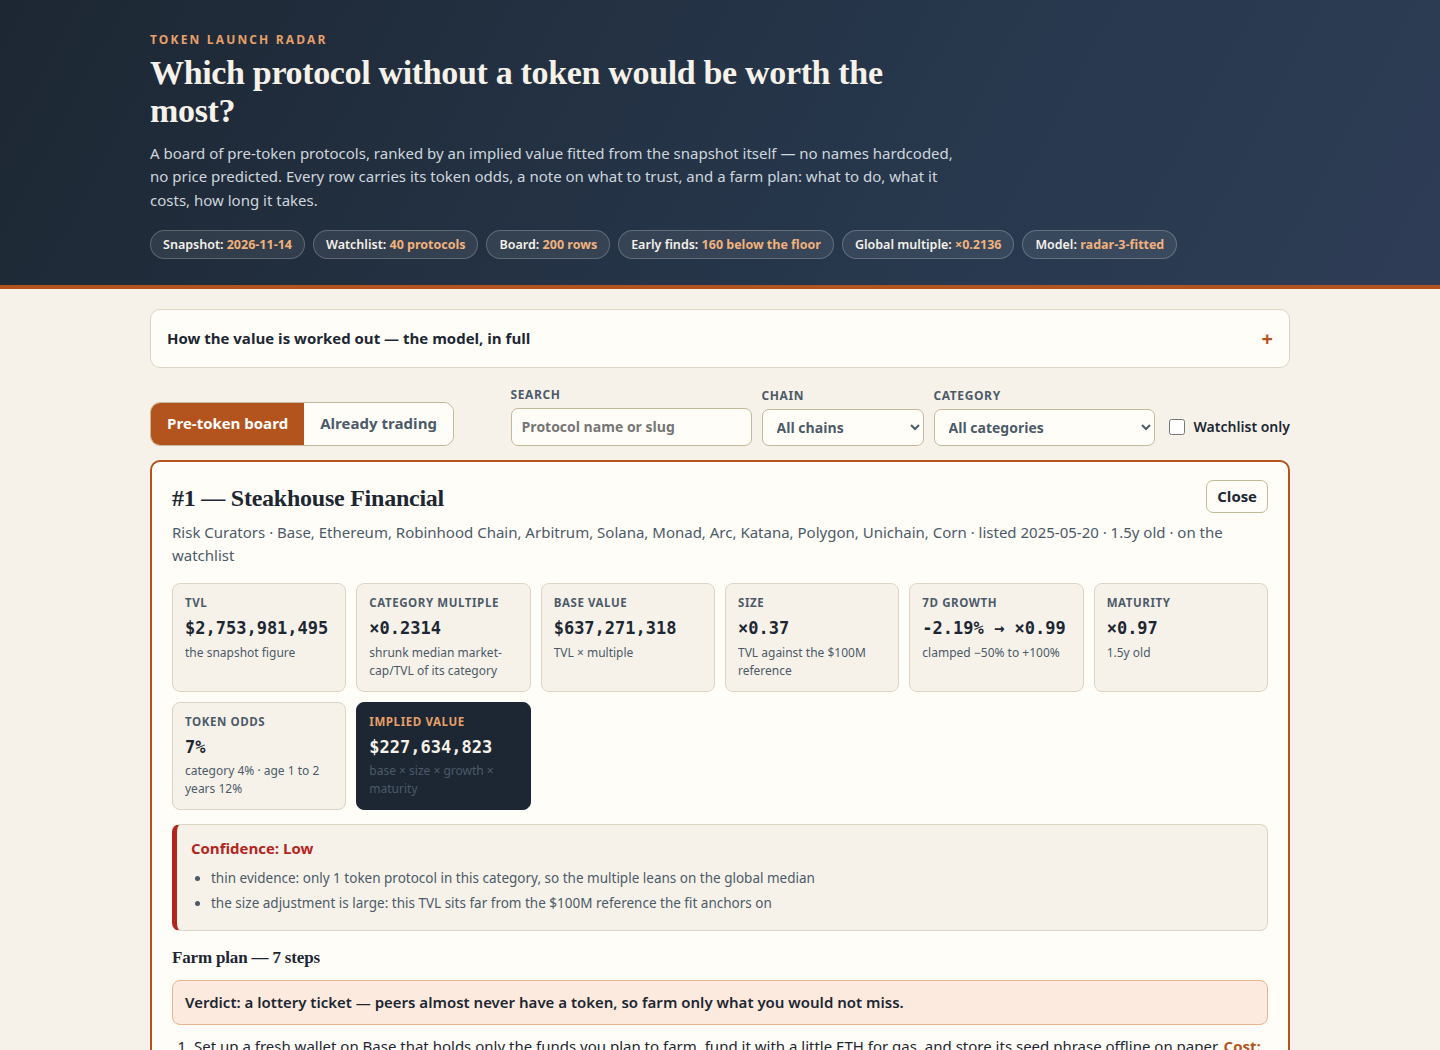
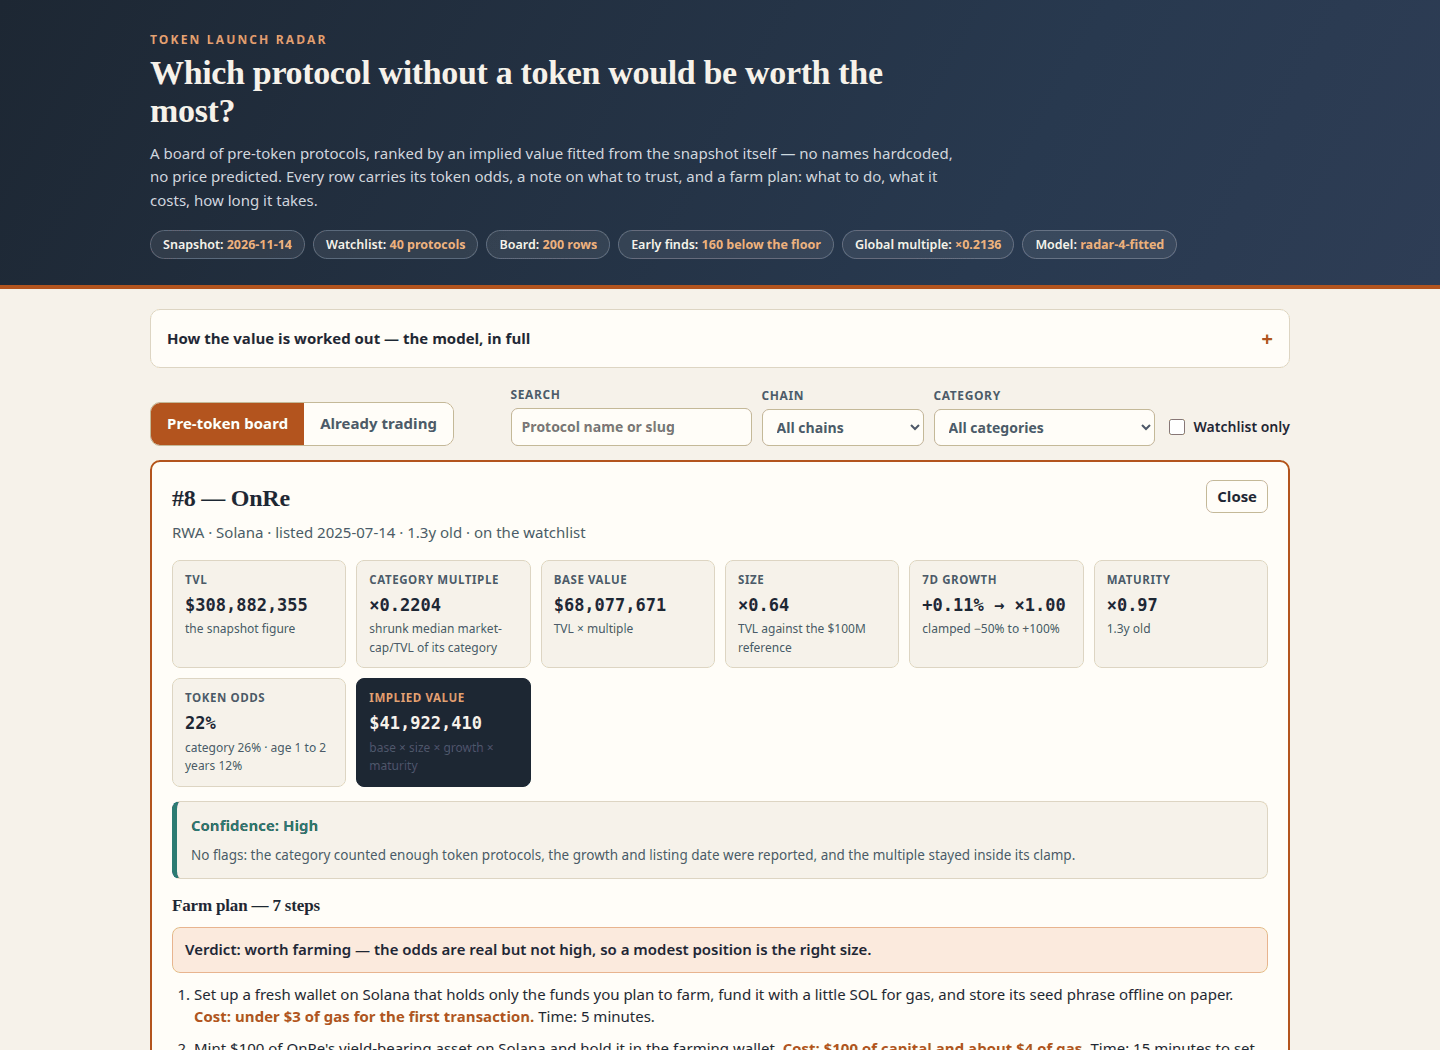
Launch radar v4: five-fold fitted model, evidence-only confidence
- Fit on five held-out folds (pooled MSE), finer grid: k=64, size -0.4,
  growth 0, maturity 0.9; v4 beats v2 on median error on all five folds
- Growth weight fits to zero on this snapshot; the method says so instead
  of pretending otherwise
- Confidence now counts evidence only (category sample, reported
  growth/date, clamp); the size adjustment no longer moves the level,
  so the top rows read Medium instead of Low
- Method adds a candid 'Reading the top of the board' note (category
  concentration, low token odds, the record is not proof of no token)
- Detail screenshot shows OnRe (#8, high confidence); filtered view is
  watchlist-only; screenshots palette-quantized, dossier 1.44MB -> 0.47MB

diff --git a/lib/model.ts b/lib/model.ts
@@ -1,4 +1,4 @@
-// Token launch radar, model v3 ("fitted").
+// Token launch radar, model v4 ("fitted").
 //
 // The board ranks pre-token protocols by an implied value fitted from the
 // snapshot itself, never from a hand-written list of names:
@@ -27,13 +27,13 @@
 // The fit is a grid search that minimises the mean squared error of
 // log(implied) against log(market cap) on the token protocols — but the
 // knobs are chosen by held-out error, not in-sample error: every candidate
-// is scored on two held-out folds (a deterministic hash split of the token
-// protocols, folds A and B), each time with the multiples table fitted on
-// that fold's training protocols only, and the candidate with the lowest
-// mean held-out error wins. The board uses the winning knobs with the
-// table fitted on all of them, and the dashboard prints the held-out
-// errors next to the previous model's errors on the same folds, so the
-// improvement is checked, not claimed.
+// is scored on five held-out folds (a deterministic hash split of the token
+// protocols, folds A to E, each protocol held out exactly once), each time
+// with the multiples table fitted on that fold's training protocols only,
+// and the candidate with the lowest mean held-out error wins. The board
+// uses the winning knobs with the table fitted on all of them, and the
+// dashboard prints the held-out errors next to the previous model's errors
+// on the same folds, so the improvement is checked, not claimed.
 //
 // Two more things the board carries, both from the snapshot alone:
 //   token odds  = how often protocols like this one have a token: the
@@ -41,10 +41,13 @@
 //               each shrunk toward the global rate of 19%, blended 70/30.
 //               It never moves the ranking; it tells the reader how likely
 //               the launch this board is priced for actually is.
-//   confidence  = what to trust: the category sample behind the multiple,
-//               whether the growth or the listing date was missing, whether
-//               the multiple hit its clamp, and how far the size adjustment
-//               reaches. A row with thin evidence says so on its face.
+//   confidence  = what to trust: the evidence behind the row — the category
+//               sample behind the multiple, whether the growth or the
+//               listing date was missing, and whether the multiple hit its
+//               clamp. The size adjustment is a fitted part of the model,
+//               shown on the row's detail view, not an evidence gap, so it
+//               does not move the level. A row with thin evidence says so
+//               on its face.
 //
 // A protocol is pre-token when its record carries no market cap, no
 // CoinGecko id and no symbol. The board covers the snapshot's whole
@@ -112,7 +115,7 @@ export const MODEL: ModelParams = {
   live_rows: 20,
 };
 
-export const MODEL_VERSION = 'radar-3-fitted';
+export const MODEL_VERSION = 'radar-4-fitted';
 
 const DAY_MS = 86_400_000;
 
@@ -422,12 +425,16 @@ function scoreFold(
   };
 }
 
-/** Every candidate parameter set, in fixed grid order. */
+/** Every candidate parameter set, in fixed grid order. The grid is finer
+ * than v3's around the region the coarse grid preferred, and the growth
+ * weight is allowed to fall to zero: the fit may find that seven-day
+ * growth carries no signal, and the board then says so instead of
+ * pretending otherwise. */
 export function gridCombos(): FitParams[] {
   const combos: FitParams[] = [];
-  for (const k of [0, 2, 4, 8, 16, 32]) {
-    for (const s of [-0.6, -0.45, -0.3, -0.15, 0]) {
-      for (const w of [0, 0.1, 0.2, 0.3, 0.4]) {
+  for (const k of [0, 4, 8, 16, 32, 48, 64]) {
+    for (const s of [-0.6, -0.5, -0.4, -0.3, -0.2, -0.1, 0]) {
+      for (const w of [0, 0.1, 0.2, 0.3, 0.4, 0.5]) {
         for (const m of [0.7, 0.8, 0.9, 1]) {
           combos.push({ shrink_k: k, size_exponent: s, growth_weight: w, maturity_floor: m });
         }
@@ -449,35 +456,47 @@ export interface FitResult {
 
 /**
  * The whole fit. The knobs are chosen by held-out error, not by in-sample
- * error: every candidate is scored on both folds' validation sets, each
- * time with the table fitted on that fold's training protocols only, and
- * the candidate with the lowest mean validation error wins. The board then
- * uses the winning knobs with the table fitted on all token protocols.
- * Each fold also scores the previous model on the same split, so the
- * improvement is measured, not asserted.
+ * error: every candidate is scored on five held-out folds (a deterministic
+ * hash split, folds A to E, each token protocol held out exactly once),
+ * each time with the table fitted on that fold's training protocols only.
+ * The score is the mean squared log error over every held-out protocol,
+ * each counted once — the folds are pooled, not averaged, so a small fold
+ * does not count as much as a large one — and the candidate with the
+ * lowest score wins. The board then uses the winning knobs with the table
+ * fitted on all token protocols. Each fold also scores the previous model
+ * on the same split, so the improvement is measured, not asserted.
  */
 export function fitModel(snapshot: Snapshot, model: ModelParams = MODEL): FitResult {
   const fitted = fittableProtocols(snapshot);
   const table = logRatioTable(fitted);
-  const splits = [0, 1].map((foldMod) => {
+  const foldNames = ['A', 'B', 'C', 'D', 'E'];
+  const splits = [0, 1, 2, 3, 4].map((foldMod) => {
     const valid = fitted.filter((p) => fnv1a(p.slug) % 5 === foldMod);
     const train = fitted.filter((p) => fnv1a(p.slug) % 5 !== foldMod);
     return { foldMod, valid, train, trainTable: logRatioTable(train) };
   });
   let best: FitParams = { shrink_k: 4, size_exponent: -0.3, growth_weight: 0, maturity_floor: 1 };
-  let bestAvg = Infinity;
+  let bestScore = Infinity;
   for (const combo of gridCombos()) {
-    const avg =
-      (fitError(splits[0]!.valid, snapshot.as_of, splits[0]!.trainTable, combo, model, false) +
-        fitError(splits[1]!.valid, snapshot.as_of, splits[1]!.trainTable, combo, model, false)) /
-      2;
-    if (avg < bestAvg) {
-      bestAvg = avg;
+    // Pooled held-out error: every held-out protocol counted once.
+    let sumSq = 0;
+    let count = 0;
+    for (const s of splits) {
+      for (const p of s.valid) {
+        const err =
+          logImpliedFor(p, snapshot.as_of, s.trainTable, combo, model, false) - Math.log(p.mcap_usd!);
+        sumSq += err * err;
+        count++;
+      }
+    }
+    const score = count === 0 ? Infinity : sumSq / count;
+    if (score < bestScore) {
+      bestScore = score;
       best = combo;
     }
   }
   const folds: FoldScore[] = splits.map((s) => ({
-    fold: s.foldMod === 0 ? 'A' : 'B',
+    fold: foldNames[s.foldMod]!,
     n_train: s.train.length,
     n_valid: s.valid.length,
     fitted: scoreFold(s.valid, snapshot.as_of, s.trainTable, best, model, false),
@@ -567,7 +586,10 @@ export function tokenOdds(
   };
 }
 
-/** What the reader should and should not trust about one row. */
+/** What the reader should and should not trust about one row: the evidence
+ * behind it, not the size of a fitted adjustment. The size multiplier is
+ * shown on the row's detail view; it is part of the fitted model, not a
+ * gap in the evidence, so it does not move the level. */
 export interface Confidence {
   level: 'high' | 'medium' | 'low';
   flags: string[];
@@ -602,9 +624,6 @@ export function confidenceFor(
   }
   if (v.age === null) {
     flags.push('listing date missing, so the age is assumed to be 365 days');
-  }
-  if (v.sizeMultiplier < 0.5 || v.sizeMultiplier > 2) {
-    flags.push('the size adjustment is large: this TVL sits far from the $100M reference the fit anchors on');
   }
   const level = flags.length === 0 ? 'high' : flags.length === 1 ? 'medium' : 'low';
   return { level, flags };

diff --git a/dashboard/index.html b/dashboard/index.html
@@ -44,12 +44,17 @@
       </ol>
       <p><strong>How the four knobs were chosen.</strong> A grid search over all four, scored
         by held-out error — never by in-sample error. The 128 token protocols with a market
-        cap above zero were split twice by a hash of the slug (folds A and B); each candidate
-        was scored on a fold's validation protocols using only that fold's training protocols,
-        and the candidate with the lowest mean held-out error won. The board uses those knobs
-        with the multiples fitted on all 128. The table below scores the fitted model and the
-        previous model (fixed 0.40 growth weight, 0.70 maturity floor, no size term, hard
-        4-sample category rule) on the same held-out folds.</p>
+        cap above zero were split five ways by a hash of the slug (folds A to E, each protocol
+        held out exactly once); each candidate was scored on a fold's validation protocols using
+        only that fold's training protocols, and the score is the mean squared log error over
+        every held-out protocol, each counted once. The candidate with the lowest score won,
+        and the board uses those knobs with the multiples fitted on all 128. The grid lets any
+        knob fall to its edge, and on this snapshot the growth weight does: seven-day TVL
+        change does not predict market cap on the held-out folds, so the fitted weight is 0
+        and the growth term adds nothing. The board still prints the 7-day change on every row
+        — the figure is there to read; the model does not pretend it predicts value. The table
+        below scores the fitted model and the previous model (fixed 0.40 growth weight, 0.70
+        maturity floor, no size term, hard 4-sample category rule) on the same held-out folds.</p>
       <table class="multiples" id="validation">
         <thead><tr><th>Fold</th><th>Protocols held out</th><th>Model</th><th>Median error</th><th>RMSE (log)</th><th>Within 2×</th></tr></thead>
         <tbody></tbody>
@@ -65,16 +70,27 @@
         <thead><tr><th>Age bucket</th><th>Token protocols</th><th>All protocols</th><th>Rate used</th></tr></thead>
         <tbody></tbody>
       </table>
-      <p><strong>What to trust.</strong> Each row carries a confidence level. High means no
-        flag: the category counted at least 4 token protocols, the growth and the listing date
-        were reported, the multiple stayed inside its clamp, and the size adjustment is small.
-        Every flag is listed on the row's detail view — thin category evidence, a clamped
-        multiple, missing growth or listing date, or a large size adjustment. Three things the
-        numbers cannot do: the snapshot carries market cap, not fully diluted value, so every
-        multiple here is a market-cap multiple; 15 token protocols record a zero market cap
-        and are left out of the fit, because a zero is a missing value, not a value; and within
-        a category, token protocols' ratios spread by 10× or more, so any single multiple is
-        an estimate.</p>
+      <p><strong>Reading the top of the board.</strong> The top rows cluster in a few
+        categories — risk curators and capital allocators — because those categories' token
+        protocols carry the highest shrunk multiples and the largest TVLs, and the ranking is
+        TVL-led: a board that ranked by anything else would not be a value board. The token
+        odds up there look low, mostly under 15%, because most pre-token protocols never
+        launch at all; the implied value is the value <em>if</em> one launches, and the odds
+        say how often peers do. A reader may also recognise a name or two in the top ten as a
+        token that trades; their records in this snapshot carry no token, so the rule ranks
+        them, and the board reports the record — it does not claim the protocol has no token.
+        The confidence strip on each row says when the evidence behind it is thin.</p>
+      <p><strong>What to trust.</strong> Each row carries a confidence level, and it counts
+        the evidence behind the row only. High means no flag: the category counted at least 4
+        token protocols, the growth and the listing date were reported, and the multiple stayed
+        inside its clamp. Every flag is listed on the row's detail view — thin category
+        evidence, a clamped multiple, or a missing growth or listing date. The size adjustment
+        is a fitted part of the model, shown on the detail view, not an evidence gap, so it
+        does not move the level. Three things the numbers cannot do: the snapshot carries
+        market cap, not fully diluted value, so every multiple here is a market-cap multiple;
+        15 token protocols record a zero market cap and are left out of the fit, because a
+        zero is a missing value, not a value; and within a category, token protocols' ratios
+        spread by 10× or more, so any single multiple is an estimate.</p>
       <p>The table below lists every category multiple the model used, with its sample size,
         so the ranking can be checked from the snapshot alone.</p>
       <table class="multiples" id="multiples">

diff --git a/dashboard/app.js b/dashboard/app.js
@@ -6,6 +6,7 @@
 //   #detail=<slug>    open one protocol's detail view
 //   #chain=<chain>    filter the board to one chain
 //   #category=<name>  filter the board to one category
+//   #watchlist=1      show the watchlist only
 //   #q=<text>         filter the board by name or slug
 (function () {
   'use strict';
@@ -385,9 +386,11 @@
     state.q = '';
     state.chain = 'all';
     state.category = 'all';
+    state.watchlistOnly = false;
     document.getElementById('q').value = '';
     document.getElementById('chain').value = 'all';
     document.getElementById('category').value = 'all';
+    document.getElementById('watchlist-only').checked = false;
     if (!hash) return;
     hash.split('&').forEach(function (part) {
       var kv = part.split('=');
@@ -407,6 +410,9 @@
         document.getElementById('q').value = v;
       } else if (k === 'tab' && (v === 'live' || v === 'board')) {
         setTab(v);
+      } else if (k === 'watchlist' && v === '1') {
+        state.watchlistOnly = true;
+        document.getElementById('watchlist-only').checked = true;
       }
     });
   }
